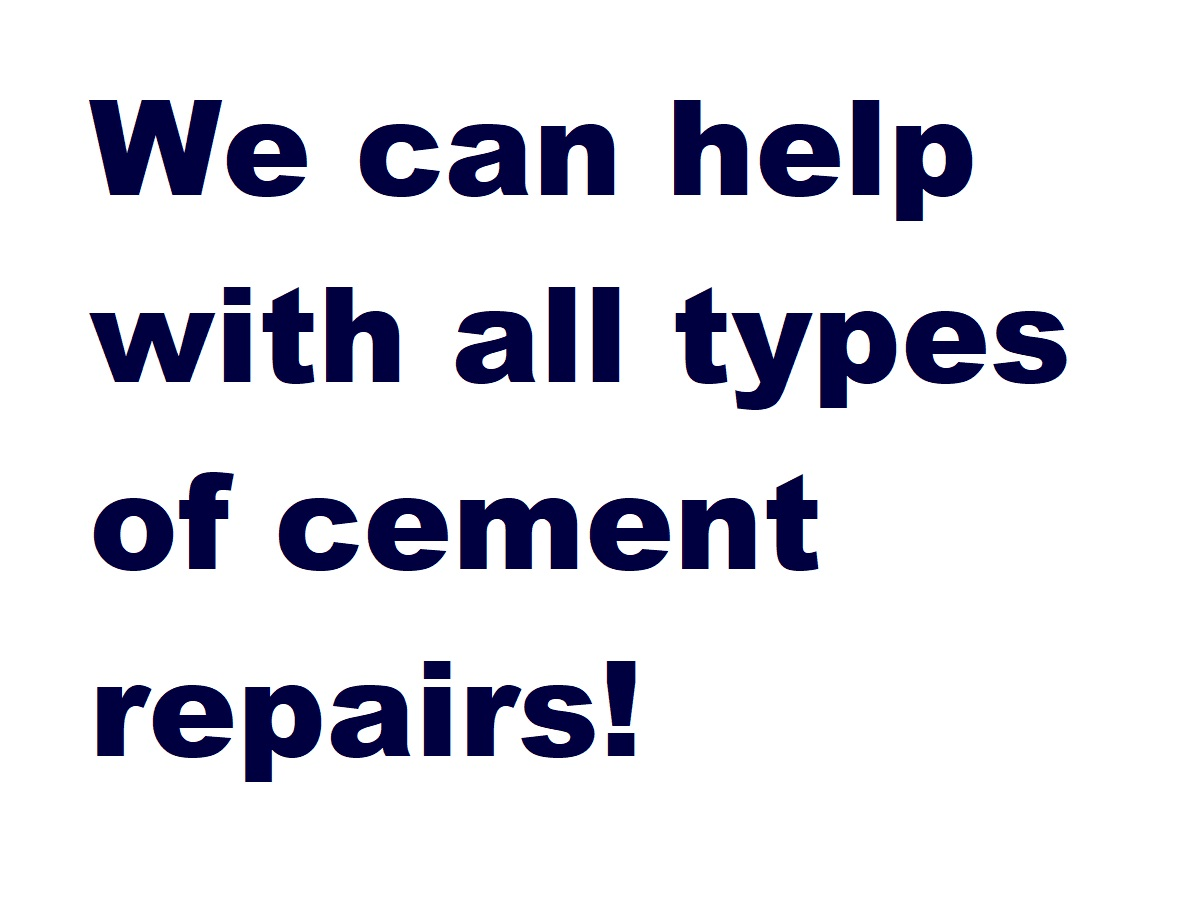
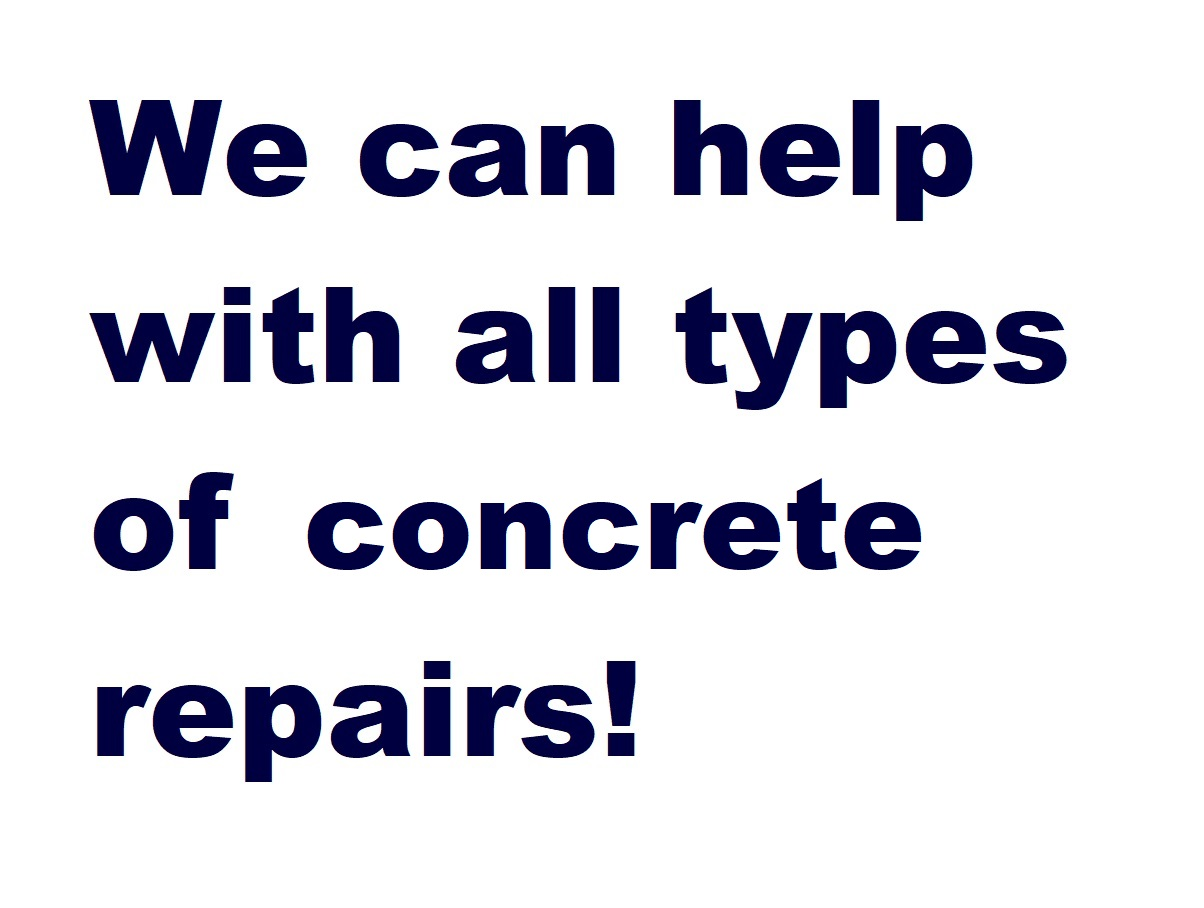
word change: cement to concrete
about text and services images

Changed region(s): [[0.2151, 0.5242, 0.7683, 0.6476]]

diff --git a/about.html b/about.html
@@ -41,7 +41,7 @@
 						The owner Angel Rodriguez has been working in concrete construction for 20+ years.
 						At the moment we are a small family business with hopes of becoming a large company. 
 						It doesn't matter the size of the project, we always like to honor our name by
-						making a work of art, through the cement.
+						making a work of art, through the concrete.
 					</div>
 				
 				</div>
